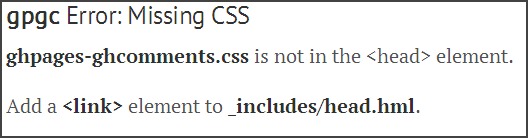
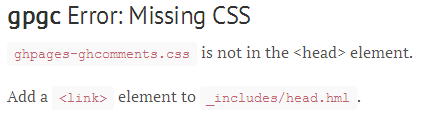
Fix diagnostics: a successful issue search wouldn't show missing CSS
Use <code> tags in help messages and update their screenshots

Changed region(s): [[0.0, 0.0, 1.0, 1.0], [0.4917, 0.9211, 0.5225, 0.9474]]

diff --git a/_includes/gpgc_comments.html b/_includes/gpgc_comments.html
@@ -18,52 +18,51 @@
 
   function onSearchComplete(searchRequest) {
     var searchResults = JSON.parse(searchRequest.responseText);
+{% if site.data.gpgc.enable_diagnostics %}
+    var css = document.styleSheets;
+    var foundCssInHead = false;
+    var fetchedCss = false;
+    for (var i = 0; i < css.length; i++) {
+      if (css[i].href.match("ghpages-ghcomments.css")) {
+        foundCssInHead = true;
+        if (css[i].cssRules.length > 0) {
+          fetchedCss = true;
+        }
+        break;
+      }
+    }
+
+    var missingCssMessage = "";
+    if (! foundCssInHead) {
+      missingCssMessage = '<h3><strong>gpgc</strong> Error: Missing CSS</h3><p><code>ghpages-ghcomments.css</code> is not in the &lt;head&gt; element.</p><p>Add a <code>&lt;link&gt;</code> element to <code>_includes/head.hml</code>.</p>';
+    }
+
+    var css404Message = "";
+    if (! fetchedCss && foundCssInHead) {
+      css404Message = '<h3><strong>gpgc</strong> Error: CSS 404</h3><p>Could not retrieve <code>ghpages-ghcomments.css</code> from your site.</p><p>Check <code>_includes/head.hml</code> for typos.</p>';
+    }
+
+    var searchErrorMessage = ""
+    if (searchRequest.status != 200) {
+      searchErrorMessage = '<h3><strong>gpgc</strong> Error: Search Failed</h3><p>Could not search GitHub repository <strong><a href="https://www.github.com/{{ site.data.gpgc.repo_owner }}/{{ site.data.gpgc.repo_name }}">{{ site.data.gpgc.repo_owner }}/{{ site.data.gpgc.repo_name }}</a></strong>.</p><p>GitHub response:</p><p><pre>' + searchRequest.responseText + '</pre></p><p>Check:<ul><li><code>repo_owner</code> in <code>_data/gpgc.yml</code> for typos.</li><li><code>repo_name</code> in <code>_data/gpgc.yml</code> for typos.</li></ul></p>';
+    }
+
+    var missingIssueMessage = "";
+    if (searchResults.total_count === 0) {
+      missingIssueMessage = '<h3><strong>gpgc</strong> Error: Missing Issue</h3><p>Could not find comment issue with the title <em>{{ include.post_title }}</em> in the repository <strong><a href="https://www.github.com/{{ site.data.gpgc.repo_owner }}/{{ site.data.gpgc.repo_name }}">{{ site.data.gpgc.repo_owner }}/{{ site.data.gpgc.repo_name }}</a></strong>.</p><p>Check:<ul><li>for typos in the Jekyll <code>title</code> front matter for this post: <code>{{ page.path }}</code>.</li><li>that the <code>repo_name</code> in <code>_data/gpgc.yml</code> matches the repository for this site.</li><li>the terminal output from <code>git push</code> for other error messages if the git hooks are installed.</li></ul></p>';
+    }
+
+    var allMessagesHtml = missingCssMessage + css404Message + searchErrorMessage + missingIssueMessage;
+    if (allMessagesHtml.length > 0) {
+      allMessagesHtml += '<h3>Help</h3><p>Verify your site\'s configuration with the <a href="downtothewire.io/ghpages-ghcomments/setup/">setup instructions</a> and refer to the <a href="http://downtothewire.io/ghpages-ghcomments/advanced/verbose-usage/">verbose usage</a> for step-by-step details.</p><p>Contact <strong><a href="https://github.com/wireddown/ghpages-ghcomments/issues">ghpages-ghcomments</a></strong> for more help.</p>';
+    }
+
+    document.body.innerHTML += '<div class="container content gpgc-all-comments">' + allMessagesHtml + '</div>';
+{% endif %}
     if (searchResults.total_count === 1) {
       IssueUrl = searchResults.items[0].html_url;
       getGitHubApiRequestWithCompletion(searchResults.items[0].comments_url, onCommentsUpdated);
     }
-{% if site.data.gpgc.enable_diagnostics %}
-    else if (true) {
-      var css = document.styleSheets;
-      var foundCssInHead = false;
-      var fetchedCss = false;
-      for (var i = 0; i < css.length; i++) {
-        if (css[i].href.match("ghpages-ghcomments.css")) {
-          foundCssInHead = true;
-          if (css[i].cssRules.length > 0) {
-            fetchedCss = true;
-          }
-          break;
-        }
-      }
-
-      var missingCssMessage = "";
-      if (! foundCssInHead) {
-        missingCssMessage = '<h3><strong>gpgc</strong> Error: Missing CSS</h3><p><strong>ghpages-ghcomments.css</strong> is not in the &lt;head&gt; element.</p><p>Add a <strong>&lt;link&gt;</strong> element to <strong>_includes/head.hml</strong>.</p>';
-      }
-
-      var css404Message = "";
-      if (! fetchedCss && foundCssInHead) {
-        css404Message = '<h3><strong>gpgc</strong> Error: CSS 404</h3><p>Could not retrieve <strong>ghpages-ghcomments.css</strong> from your site.</p><p>Check <strong>_includes/head.hml</strong> for typos.</p>';
-      }
-
-      var searchErrorMessage = ""
-      if (searchRequest.status != 200) {
-        searchErrorMessage = '<h3><strong>gpgc</strong> Error: Search Failed</h3><p>Could not search GitHub repository <strong><a href="https://www.github.com/{{ site.data.gpgc.repo_owner }}/{{ site.data.gpgc.repo_name }}">{{ site.data.gpgc.repo_owner }}/{{ site.data.gpgc.repo_name }}</a></strong>.</p><p>GitHub response:</p><p><pre>' + searchRequest.responseText + '</pre></p><p>Check:<ul><li><strong>repo_owner</strong> in <strong>_data/gpgc.yml</strong> for typos.</li><li><strong>repo_name</strong> in <strong>_data/gpgc.yml</strong> for typos.</li></ul></p>';
-      }
-
-      var missingIssueMessage = "";
-      if (searchResults.total_count === 0) {
-        missingIssueMessage = '<h3><strong>gpgc</strong> Error: Missing Issue</h3><p>Could not find comment issue with the title <strong>{{ include.post_title }}</strong> in the repository <strong><a href="https://www.github.com/{{ site.data.gpgc.repo_owner }}/{{ site.data.gpgc.repo_name }}">{{ site.data.gpgc.repo_owner }}/{{ site.data.gpgc.repo_name }}</a></strong>.</p><p>Check:<ul><li>for typos in the Jekyll <strong>title</strong> front matter for this post: <strong>{{ page.path }}</strong>.</li><li>that the <strong>repo_name</strong> in <strong>_data/gpgc.yml</strong> matches the repository for this site.</li><li>the terminal output from <strong>git push</strong> for other error messages if the git hooks are installed.</li></ul></p>';
-      }
-
-      var allCommentsHtml = missingCssMessage + css404Message + searchErrorMessage + missingIssueMessage;
-      allCommentsHtml += '<h3>Help</h3><p>Verify your site\'s configuration with the <a href="downtothewire.io/ghpages-ghcomments/setup/">setup instructions</a> and refer to the <a href="http://downtothewire.io/ghpages-ghcomments/advanced/verbose-usage/">verbose usage</a> for step-by-step details.</p><p>Contact <strong><a href="https://github.com/wireddown/ghpages-ghcomments/issues">ghpages-ghcomments</a></strong> for more help.</p>';
-      var loadCommentsHtml = "";
-      var leaveCommentsHtml = "";
-      updateCommentDivs(allCommentsHtml, loadCommentsHtml, leaveCommentsHtml);
-    }
-{% endif %}
     else {
       updateCommentActions(CommentsArray);
     }

diff --git a/_posts/2015-02-07-use-diagnostics-to-troubleshoot.md b/_posts/2015-02-07-use-diagnostics-to-troubleshoot.md
@@ -5,7 +5,7 @@ title: Use Diagnostics to Troubleshoot
 
 If you're having trouble adding ghpages-ghcomments to your site, there's a setting that will help you learn more about what is failing.
 
-In your `_data/gpgc.yml` file, add a new line:
+In your `_data/gpgc.yml` file, update this line:
 
 ```
 enable_diagnostics: true
